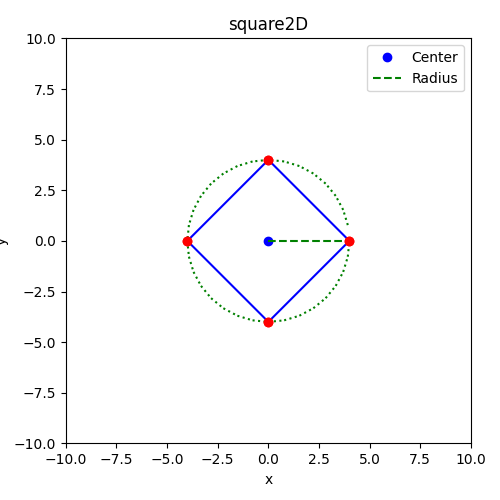
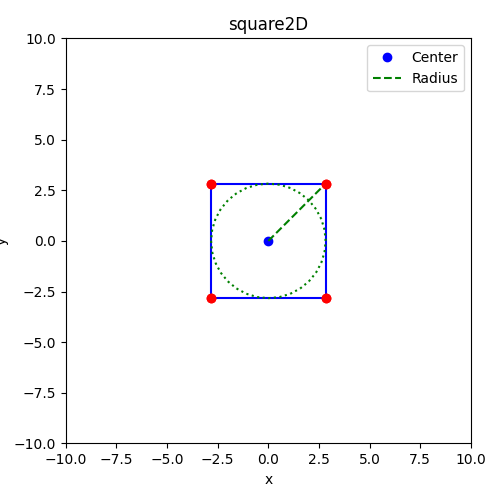
Fixed bugs in blocking edge for square2D class. Solution is promising.

Changed region(s): [[0.36, 0.3, 0.72, 0.66], [0.54, 0.45, 0.57, 0.51], [0.57, 0.42, 0.6, 0.45]]

diff --git a/src/square2D.cpp b/src/square2D.cpp
@@ -3,12 +3,16 @@
 namespace ds
 {
 
-square2D::square2D(vec2f center, float radius) : m_center(center), m_radius(radius)
+square2D::square2D(vec2f center, float radius, float rotation) : m_center(center), m_radius(radius)
 {
     auto right = ds::point2D(
         m_center.x + m_radius,
         m_center.y
     );
+
+    // Set rotation and adjust first vertex
+    this->m_rotation = fmod(rotation, degToRad(360.f));
+    right = right.rotate(rotation, this->m_center);
 
     m_corners.push_back(right); // Top right
     m_corners.push_back(right.rotate(degToRad(90.f), m_center)); // Top left
@@ -57,21 +61,30 @@ const line2D square2D::getBlockingEdge(const point2D &ls) const
 {
     float vert_serparation = degToRad(90.f); // Separation between vertices [Radians]
     float vert_overflow = fmod(ls.angle(this->m_center), vert_serparation); // Overflow between closest previous vertex and light source [Radians] 
-    float adjustment = (-1) * vert_overflow; // Compensation for vertex overflow to find closest previous vertex [Radians]
 
     vec2f start = this->m_center + ls.unit(this->m_center) * this->m_radius; // Find point on bounding circle at same angle as light source [vec2f]
+    float adjustment = (-1) * vert_overflow; // Compensation for vertex overflow to find closest previous vertex [Radians]
     start = start.rotate(adjustment, this->m_center); // Adjust point to find vertex [vec2f]
     vec2f end = start.rotate(vert_serparation, this->m_center); // Find vertex closest after start [vec2f]
 
-    if (vert_overflow < vert_serparation / 2.f)
-    {
-        if (fmod(ls.angle(start), vert_serparation) < vert_serparation / 2.f)
-            start = start.rotate((-1) * vert_serparation, this->m_center);
-    }
-    else
-        if (fmod(ls.angle(end), vert_serparation) > vert_serparation / 2.f)
-            end = end.rotate(vert_serparation, this->m_center);
-    
+    std::cout   << radToDeg(fmod(ls.angle(start), vert_serparation * 2.f)) 
+                << " <= "
+                << radToDeg(vert_serparation / 2.f)
+                << std::endl;
+
+    std::cout   << radToDeg(fmod(ls.rotate(vert_serparation * 0.5, end).angle(end), vert_serparation * 1.5f))
+                << " > "
+                << radToDeg(vert_serparation * 1.5f)
+                << std::endl;
+
+    float start_norm = fmod(ls.angle(start), vert_serparation * 1.5f);
+    float end_norm = fmod(ls.angle(end), vert_serparation);
+
+    if (start_norm < vert_serparation * 0.5f)
+        start = start.rotate((-1) * vert_serparation, this->m_center);
+    else if (vert_serparation * 0.5 <= end_norm && end_norm <= vert_serparation)
+        end = end.rotate(vert_serparation, this->m_center);
+
     return line2D(start, end);
 }
 

diff --git a/tests/visual_tests/main.cpp b/tests/visual_tests/main.cpp
@@ -32,6 +32,8 @@ int main(int argc, char **argv)
     docsSquarePerp();
     docsSquareDiag();
     docsSquareQuadrant();
+    docsSquareStart();
+    docsSquareBlock();
     docsCircleBlock();
     docsCircleZoom();
     docsTriangle();
@@ -239,13 +241,13 @@ void testSquareBlock()
     setupDefaultFigure();
 
     // Geometry
-    auto ls = ds::point2D(7, -2);
+    auto ls = ds::point2D(2.5, 0);
     auto sq = ds::square2D(
         ds::point2D(2, -2),
-        2
+        2, ds::degToRad(0.f)
     );
 
-    ls = ls.rotate(ds::degToRad(235.f), sq.m_center);
+    ls = ls.rotate(ds::degToRad(0.f), sq.m_center);
 
     auto sq_ls = ds::line2D(sq.m_center, ls);
     ds::line2D blocking_edge = sq.getBlockingEdge(ls);
@@ -500,6 +502,62 @@ void docsSquareDiag()
 
     plot(ds::line2D(sq[1], sq[1] + ds::point2D(1, 1) * 10), "g--");
     plot(ds::line2D(sq[1], sq[1] + ds::point2D(-1, 1) * 10), "g--");
+
+    saveFigure(DOCS_PATH, test);
+}
+
+void docsSquareStart()
+{
+    std::string test = "SquareStartEnd";
+    std::cout << "Generating " << test << " visual..." << std::endl;
+    
+    setupDefaultFigure();
+
+    // Geometry
+    auto c = ds::point2D(0, 0);
+    float r {3};
+    auto sq = ds::square2D(c, r, 0.f);
+    auto ls = ds::point2D(-3, 6);
+    auto circ = ds::evenShape2D(c, r, 32);
+
+    // Plots
+    plot(c, "ob", "Center");
+    plot(ls, "om", "Light Source");
+    plot(sq, "b");
+    plot(circ, ":y");
+    plot(ds::line2D(c, ls), ":m", "C -> LS");
+    plot(c + ls.unit(c) * r, "oy");
+    plot(sq[1], "og", "Start");
+    plot(sq[2], "or", "End");
+
+    saveFigure(DOCS_PATH, test);
+}
+
+void docsSquareBlock()
+{
+    std::string test = "SquareBlock";
+    std::cout << "Generating " << test << " visual..." << std::endl;
+    
+    setupDefaultFigure();
+
+    // Geometry
+    auto c = ds::point2D(0, 0);
+    float r {4};
+    auto sq = ds::square2D(c, r, 0.f);
+    auto circ = ds::evenShape2D(c, r, 32);
+
+    // Plots
+    plot(c, "ob", "Center");
+    plot(sq, "b");
+    plot(circ, ":y");
+    plot(ds::line2D(c, sq[0]), ":y", "Radius");
+    plot(ds::line2D(c, c + ds::point2D(1, 0) * 20.f), "m--", "Vertex separation (Section)");
+    plot(ds::line2D(c, c + ds::point2D(0, 1) * 20.f), "m--");
+    plot(ds::line2D(sq[0], sq[0] + ds::point2D(1, 1) * 20.f), ":g", "Start Check");
+    plot(ds::line2D(sq[1], sq[1] + ds::point2D(1, 1) * 20.f), ":r", "End Check");
+    plot(sq[0], "og");
+    plot(sq[1], "or");
+    plot(c, "ob");
 
     saveFigure(DOCS_PATH, test);
 }

diff --git a/include/square2D.hpp b/include/square2D.hpp
@@ -11,13 +11,16 @@ class square2D
 public:
     vec2f m_center;
     float m_radius;
+    float m_rotation;
 
 private:
     std::vector<point2D> m_corners;
 
 public:
     // Constructor
-    square2D(vec2f center, float radius);
+    square2D(vec2f center, float radius, float rotation);
+    square2D(const square2D &s) : square2D(s.m_center, s.m_radius, s.m_rotation) {}
+    square2D(vec2f center, float radius) : square2D(center, radius, degToRad(45.f)) {}
 
     /**
      * @brief Accessor for the squares top right corner.

diff --git a/include/mathplotUtil.hpp b/include/mathplotUtil.hpp
@@ -109,7 +109,7 @@ void plot(const ds::triangle2D &tri, std::string format)
 
 void plot(const ds::evenShape2D &shape, std::string format)
 {
-    for (size_t i {1}; i < shape.m_size; i++)
+    for (size_t i {1}; i < shape.size() + 1; i++)
         plot(ds::line2D(shape[i], shape[i+1]), format);
 }
 

diff --git a/tests/visual_tests/visualTests.hpp b/tests/visual_tests/visualTests.hpp
@@ -40,6 +40,8 @@ void docsSquare();
 void docsSquarePerp();
 void docsSquareDiag();
 void docsSquareQuadrant();
+void docsSquareStart();
+void docsSquareBlock();
 void docsCircleBlock();
 void docsCircleZoom();
 void docsTriangle();
